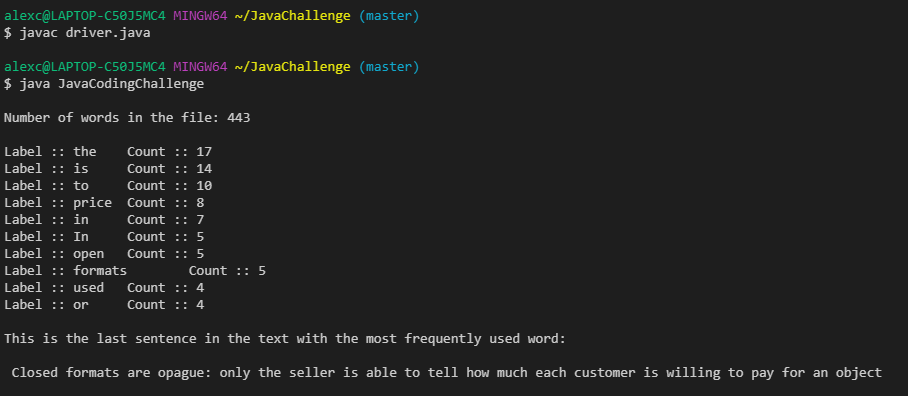
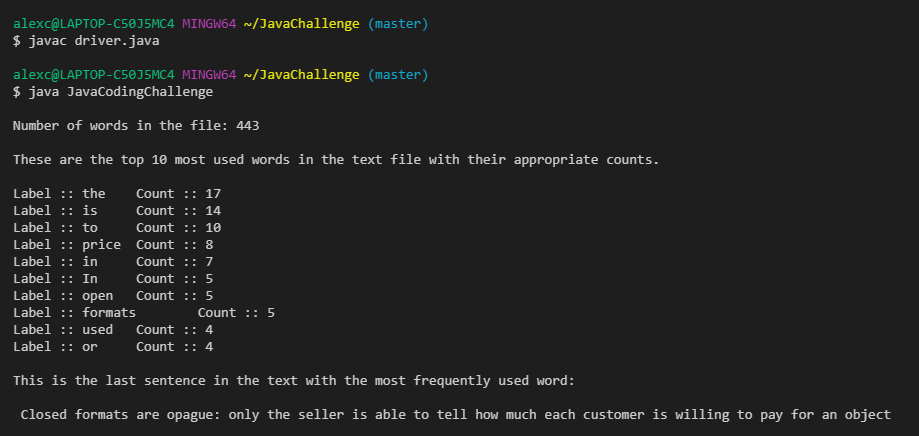
screenshot updated

diff --git a/WordFrequency.java b/WordFrequency.java
@@ -55,6 +55,7 @@ public class WordFrequency {
                 }
                 count = 0;
             }
+            System.out.println("These are the top 10 most used words in the text file with their appropriate counts.\n");
             display(n);
             DisplaySentence(words);
         } catch (Exception e) {
